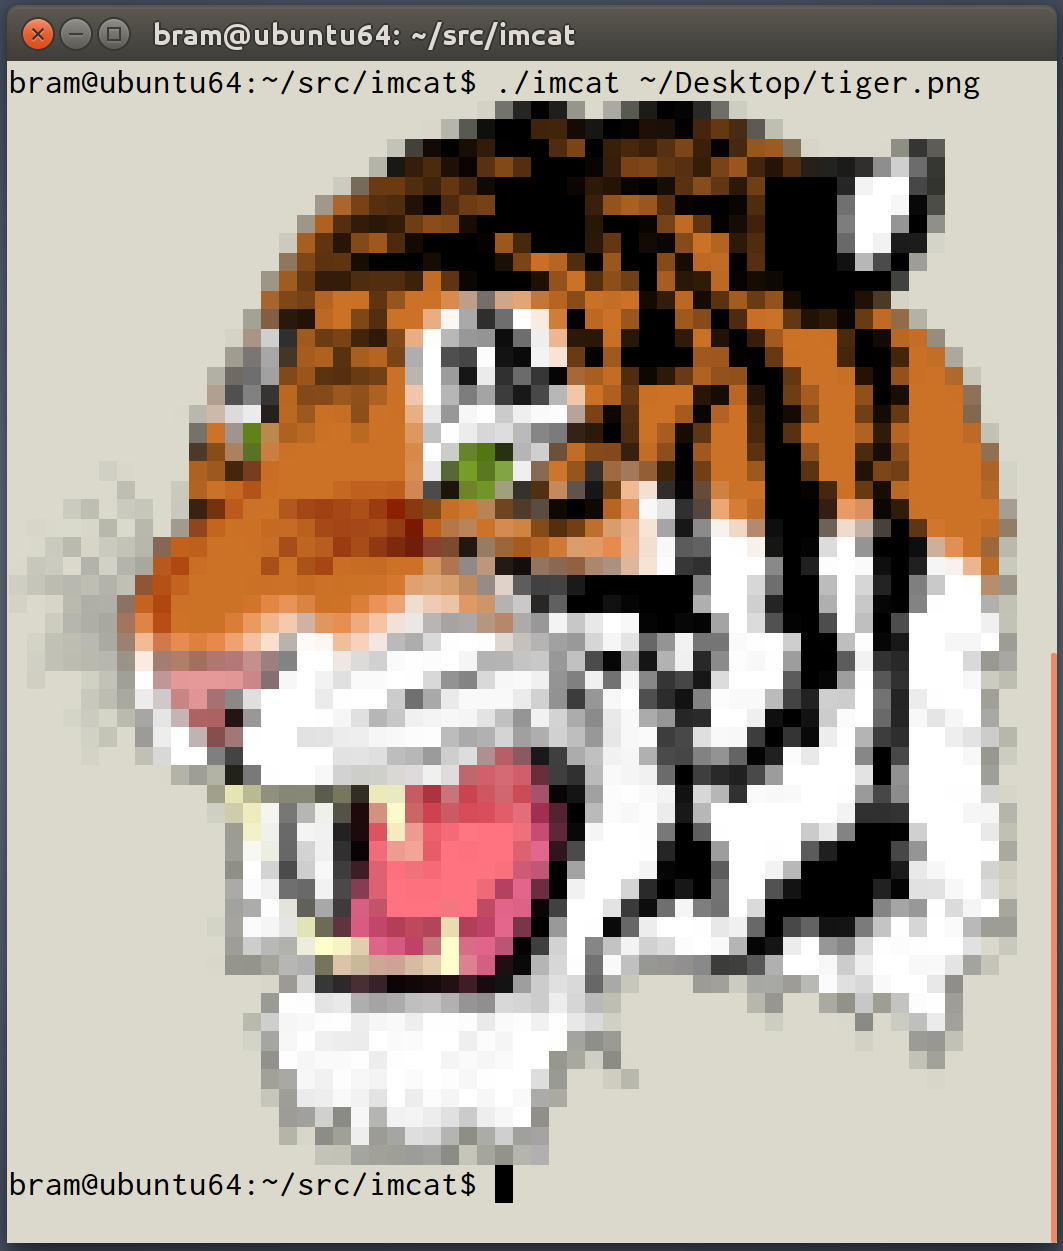
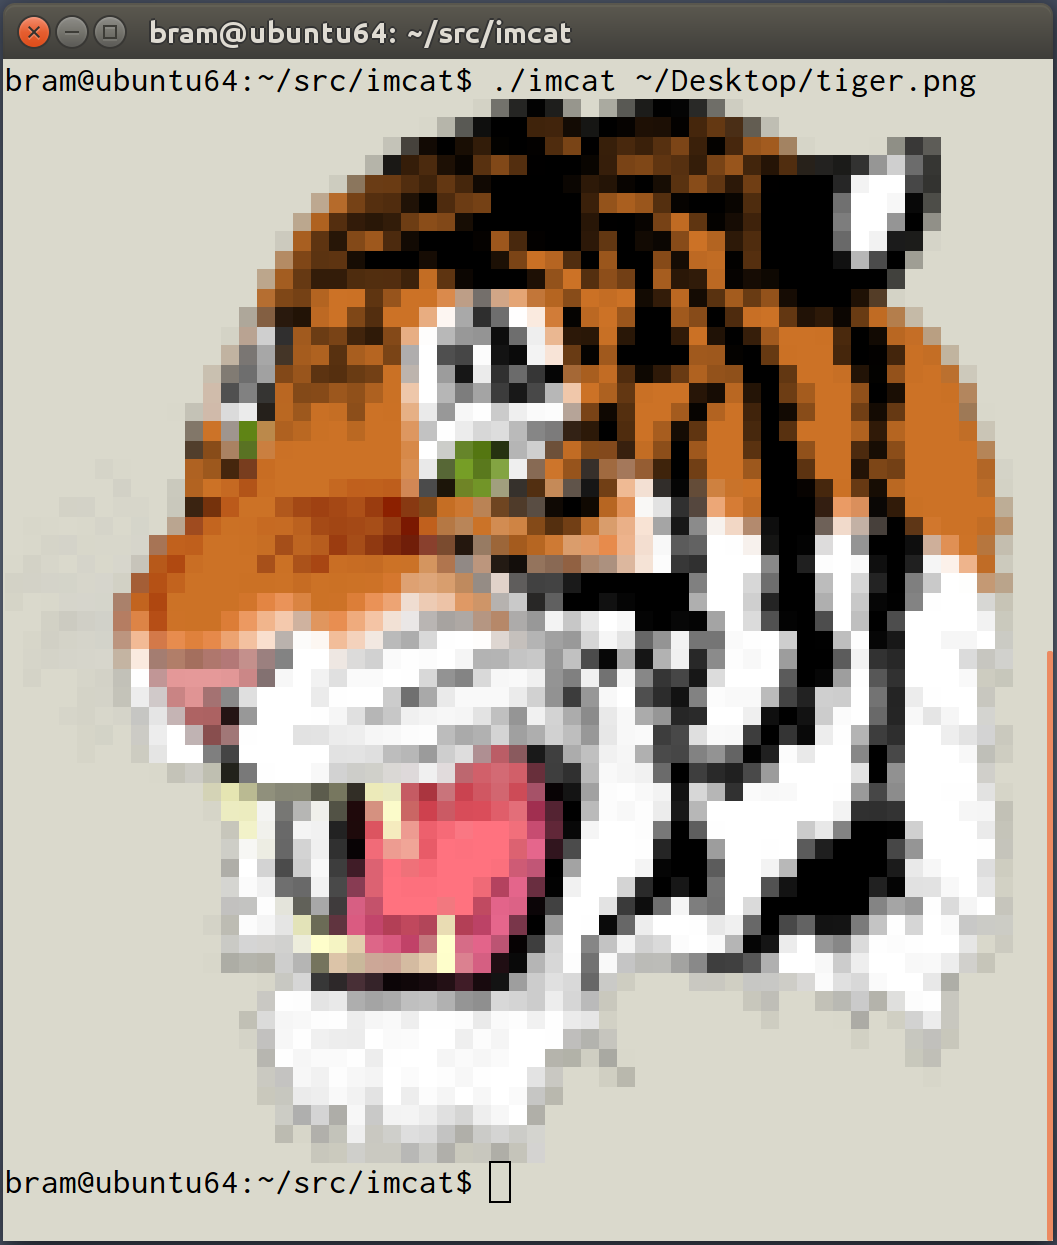
Pre multiply the alpha.

diff --git a/imcat.c b/imcat.c
@@ -99,9 +99,10 @@ static void print_image_single_res( int w, int h, unsigned char* data )
 #	define HALFBLOCK "▀"		// Uses Unicode char U+2580
 #endif
 
+// Note: image has alpha pre-multied. Mimic GL_ONE + GL_ONE_MINUS_SRC_ALPHA
 #define BLEND \
 { \
-	const int t0 = a; \
+	const int t0 = 255; \
 	const int t1 = 255-a; \
 	r = ( r * t0 + termbg[0] * t1 ) / 255; \
 	g = ( g * t0 + termbg[1] * t1 ) / 255; \
@@ -192,9 +193,10 @@ static int process_image( const char* nm )
 				for ( int xx = sx; xx <= ex; ++xx )
 				{
 					unsigned char* reader = data + ( yy * imw * 4 ) + xx * 4;
-					acc[ 0 ] += reader[0];
-					acc[ 1 ] += reader[1];
-					acc[ 2 ] += reader[2];
+					const int a = reader[3];
+					acc[ 0 ] += a * reader[0] / 255;
+					acc[ 1 ] += a * reader[1] / 255;
+					acc[ 2 ] += a * reader[2] / 255;
 					acc[ 3 ] += reader[3];
 					numsamples++;
 				}
